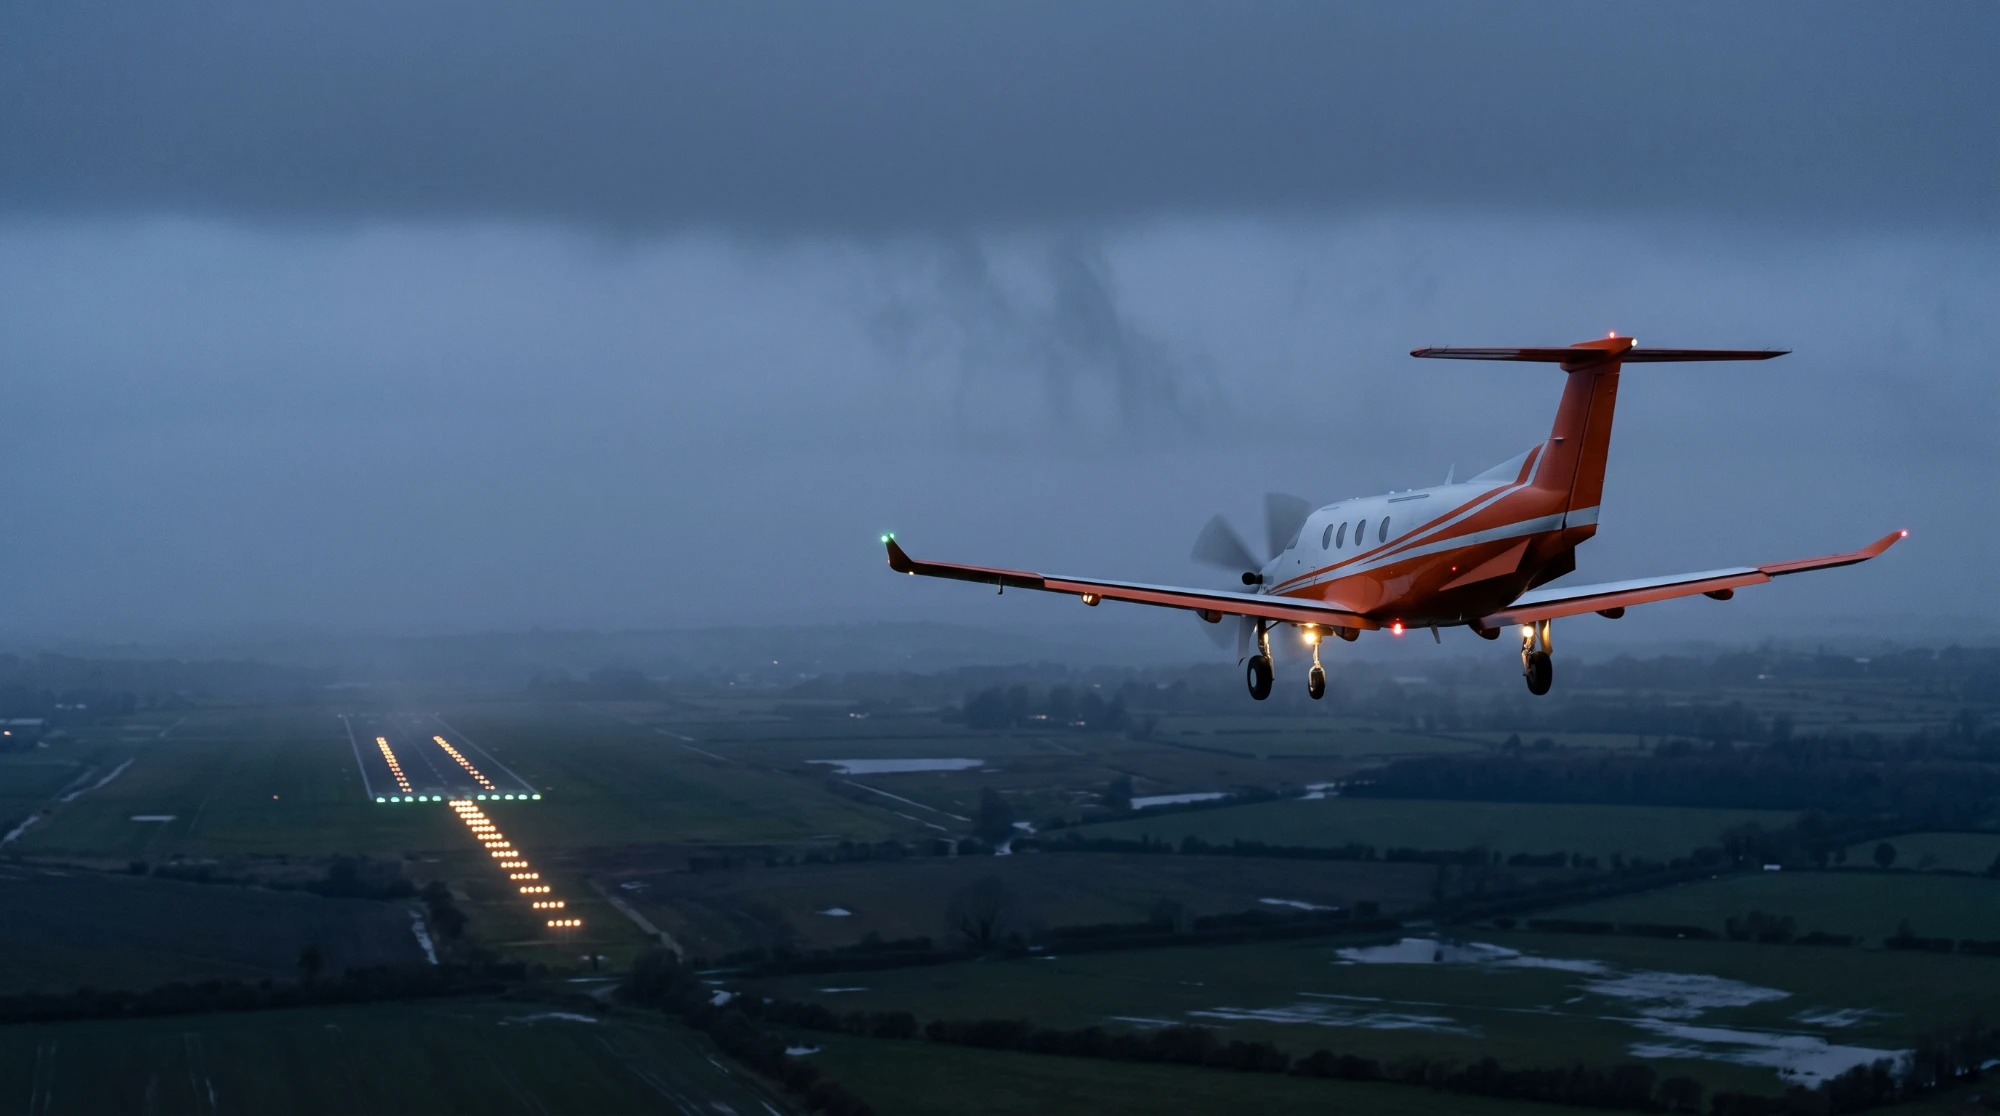
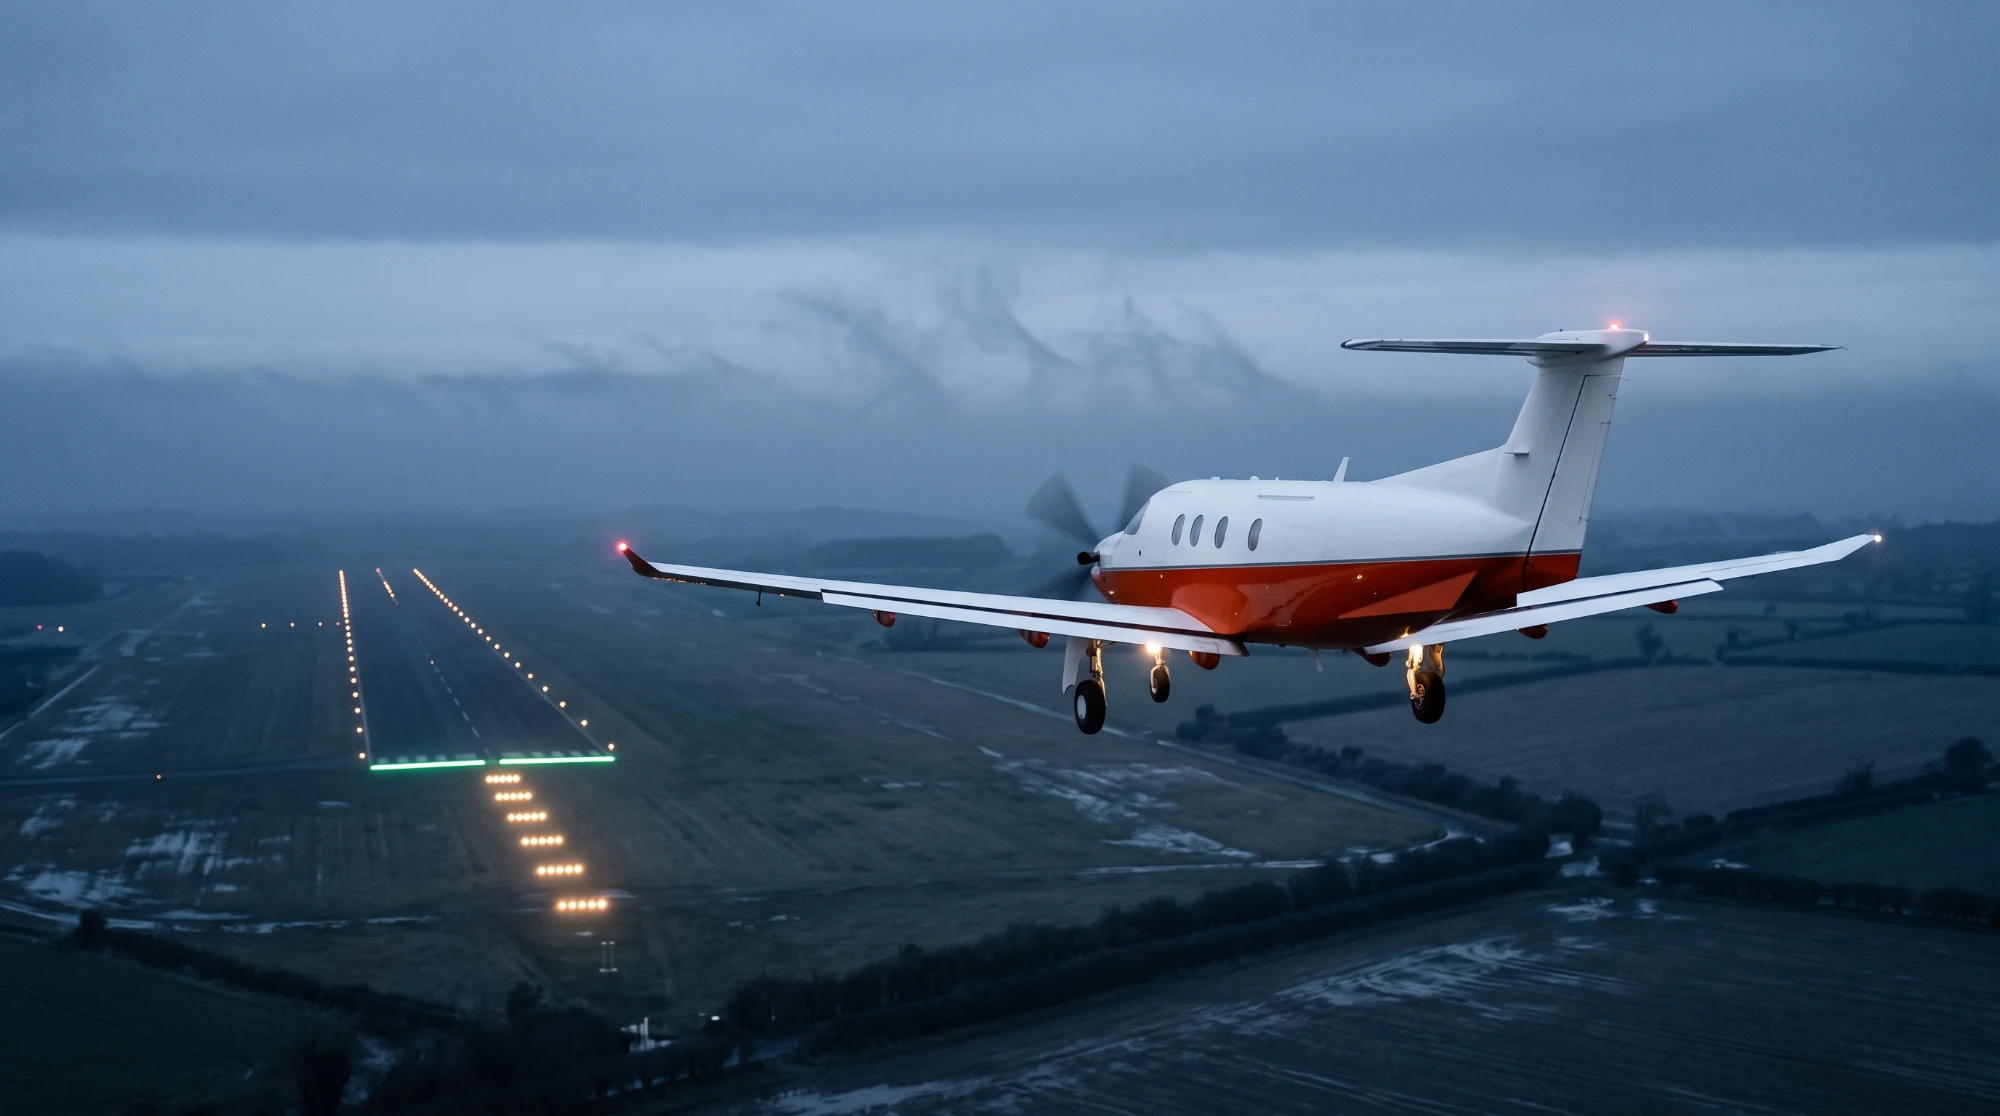
Pilot blog: use improved end frame (white fin, correct livery)
Claude-Session: https://claude.ai/code/session_01V1Cnc93yfBYKWJkbxxdqg6

diff --git a/pilot-blog-work/prompts.md b/pilot-blog-work/prompts.md
@@ -28,7 +28,7 @@ New background: the airplane is now just below a low, flat, dark blue-grey cloud
 
 ## 3. 视频（首尾帧）
 
-模型 FLUX 3 Video。Start frame 放起始图（第 2 张），End frame 放第三次做的那张结束图（从后方看、飞向跑道的那张）。分辨率 1080p，时长 6 秒，比例 16:9，关掉声音（Generate audio），一次只出 1 条。粘贴下面这段：
+模型 FLUX 3 Video。Start frame 放起始图（第 2 张），End frame 放最新那张结束图（从后方看、白色尾翼、飞向跑道的那张）。分辨率 1080p，时长 6 秒，比例 16:9，关掉声音（Generate audio），一次只出 1 条。粘贴下面这段：
 
 ```
 One continuous shot, no cuts. No text, no logos, no lettering anywhere. The single Pilatus PC-12 single-engine turboprop from the start frame: one nose propeller, low straight wings with small winglets, T-tail, gear down. It descends on a stabilized approach, wings level, from just above a dusk overcast deck, down through the cloud, and out beneath the cloud base on final toward a lit runway. The unseen air-to-air camera starts off its left side, level with it, and descends with it. As they enter the cloud, the camera eases back and falls slightly behind and above, so the aircraft turns smoothly from a side view into a rear three-quarter view and grows smaller as it pulls ahead. The aircraft stays alive: the propeller a constant blur, gentle wing rocking, gear and lights steady. Inside the cloud, thin streams of dim blue-grey mist pour between the lens and the aircraft for one beat and a few droplets streak across the lens corners, then clear. Beneath the cloud base the wet fields, hedgerows and the runway appear: white approach lights, a green threshold bar and warm edge lights at lower left, lined up ahead of the aircraft. The shot ends at rest exactly on the end frame: the aircraft seen from behind and to the left, right of center, flying toward the runway lights at lower left, under a flat dark cloud base. In the final second only the propeller and slow mist move. No text, no logos, no lettering anywhere.
